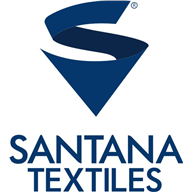
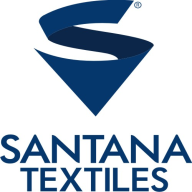
chore: cambio de branding de Molly a Santana

diff --git a/frontend/src/App.vue b/frontend/src/App.vue
@@ -26,7 +26,9 @@
           <path stroke-linecap="round" stroke-linejoin="round" stroke-width="2" d="M6 18L18 6M6 6l12 12" />
         </svg>
       </button>
-      <span class="ml-3 text-white font-semibold text-sm tracking-wide">STC Producción</span>
+      
+      <img src="/LogoSantana.jpg" alt="Logo Santana" class="h-6 w-14 object-contain object-center ml-2 rounded-[4px]" />
+      <span class="ml-3 text-white font-semibold text-sm tracking-wide">Santana Producción</span>
     </header>
 
     <!-- Sidebar Overlay -->
@@ -501,6 +503,13 @@
               <span>🏭</span> Dashboard Mezcla → Hilo
             </router-link>
             <router-link 
+              to="/relato-ia-integral" 
+              class="flex items-center gap-2 px-3 py-2 rounded hover:bg-blue-700 transition-colors text-sm" 
+              :class="{ 'bg-blue-600': $route.path === '/relato-ia-integral' }"
+            >
+              <span>💡</span> Relato Integral IA
+            </router-link>
+            <router-link 
               to="/detalle-mistura-lote" 
               class="flex items-center gap-2 px-3 py-2 rounded hover:bg-blue-700 transition-colors text-sm" 
               :class="{ 'bg-blue-600': $route.path === '/detalle-mistura-lote' }"
@@ -568,7 +577,7 @@ const indigoRoutes = [
 ]
   const isIndigoRouteActive = computed(() => indigoRoutes.includes(route.path)) 
   
-  const configRoutes = ['/parametros-hvi', '/detalle-mistura-lote', '/configuracion-estandares', '/correlacion-mezcla-hilo', '/dashboard-mezcla']
+  const configRoutes = ['/parametros-hvi', '/detalle-mistura-lote', '/configuracion-estandares', '/correlacion-mezcla-hilo', '/dashboard-mezcla', '/relato-ia-integral']
   const isConfigRouteActive = computed(() => configRoutes.includes(route.path))
 
   function openSidebar() {

diff --git a/frontend/vite.config.js b/frontend/vite.config.js
@@ -8,15 +8,15 @@ export default defineConfig({
     vue(),
     VitePWA({
       registerType: 'autoUpdate',
-      includeAssets: ['LogoSantana.jpg'],
+      includeAssets: ['LogoSantana.jpg', 'icon-192.png', 'icon-512.png', 'icon-maskable-192.png', 'icon-maskable-512.png'],
       devOptions: {
-        enabled: false,
+        enabled: true,
         type: 'module'
       },
       manifest: {
-        name: 'STC Produccion',
-        short_name: 'STC',
-        description: 'Gestion de Calidad y Produccion - STC',
+        name: 'Santana - STC Producción',
+        short_name: 'Santana',
+        description: 'Gestión de Calidad y Producción - Santana',
         theme_color: '#ffffff',
         background_color: '#ffffff',
         display: 'standalone',

diff --git a/frontend/src/router.js b/frontend/src/router.js
@@ -91,6 +91,11 @@ const routes = [
     meta: { title: 'Dashboard Mezcla → Hilo' }
   },
   {
+    path: '/relato-ia-integral',
+    component: () => import('./components/ensayos/RelatoIntegralIAView.vue'),
+    meta: { title: 'Relato Integral IA' }
+  },
+  {
     path: '/informe-auditoria-lote',
     component: () => import('./components/ensayos/InformeAuditoriaLote.vue'),
     meta: { title: 'Informe Auditoría por Lote' }
@@ -225,8 +230,8 @@ const router = createRouter({
 
 router.beforeEach((to, from, next) => {
   document.title = to.meta.title 
-    ? `${to.meta.title} - STC Produção` 
-    : 'STC Produção'
+    ? `${to.meta.title} - Santana Producción` 
+    : 'Santana Producción'
   next()
 })
 

diff --git a/frontend/dev-dist/sw.js b/frontend/dev-dist/sw.js
@@ -79,10 +79,10 @@ define(['./workbox-46f6dd99'], (function (workbox) { 'use strict';
    */
   workbox.precacheAndRoute([{
     "url": "registerSW.js",
-    "revision": "d41d8cd98f00b204e9800998ecf8427e"
+    "revision": "3ca0b8505b4bec776b69afdba2768812"
   }, {
     "url": "index.html",
-    "revision": "0.igdg188ghjg"
+    "revision": "0.bqge7t43tts"
   }], {});
   workbox.cleanupOutdatedCaches();
   workbox.registerRoute(new workbox.NavigationRoute(workbox.createHandlerBoundToURL("index.html"), {

diff --git a/frontend/index.html b/frontend/index.html
@@ -2,10 +2,10 @@
 <html lang="es">
   <head>
     <meta charset="UTF-8" />
-    <link rel="icon" type="image/png" href="/icon-192.png" />
+    <link rel="icon" type="image/jpeg" href="/LogoSantana.jpg" />
     <meta name="viewport" content="width=device-width, initial-scale=1.0" />
     <meta name="theme-color" content="#1e40af" />
-    <title>STC Produccion - Gestion de Calidad y Produccion</title>
+    <title>Santana - STC Producción</title>
   </head>
   <body>
     <div id="app"></div>
